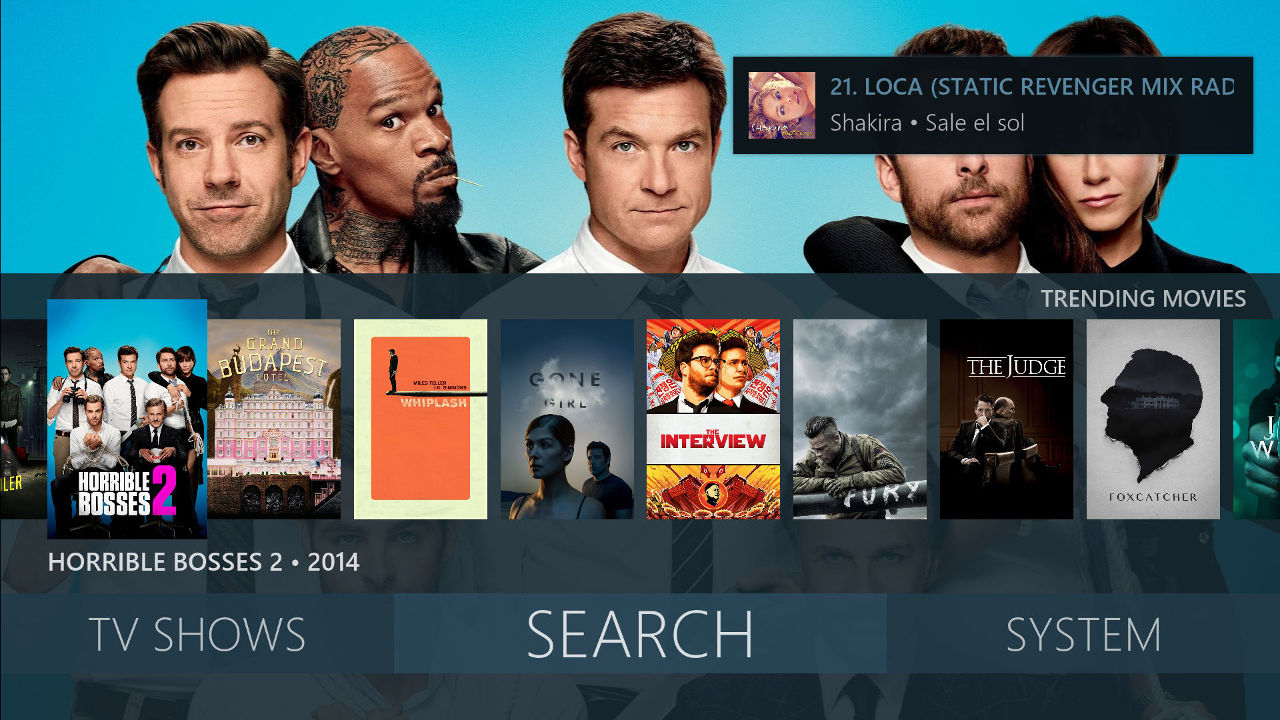
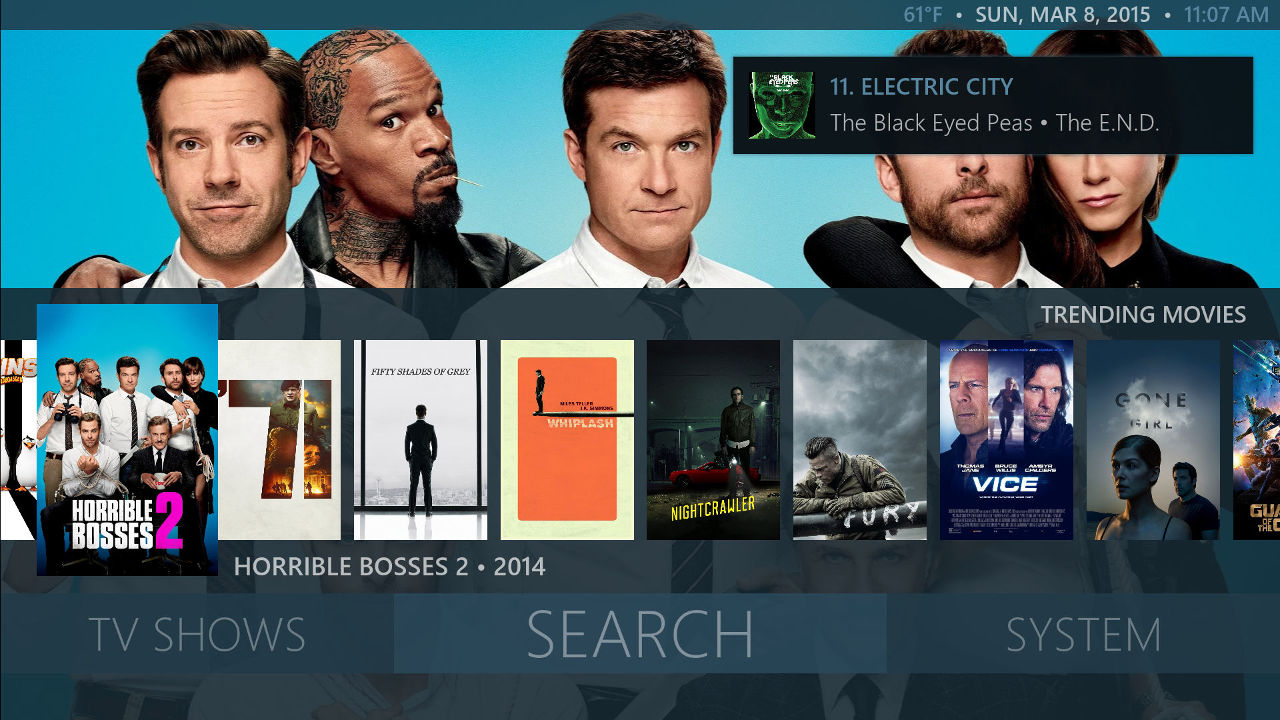
Rearrange home widget thumbs and labels

diff --git a/readme.md b/readme.md
@@ -4,9 +4,9 @@
 
 Mimic is a Kodi skin that combines features from reFocus and Aeon Nox. Based on Aeon Nox 5. Many thanks to BigNoid and Jeroen for creating the skins that are the inspiration for this release.
 
-![Home] (http://i.imgur.com/2nDwoJB.jpg)
+![Home] (http://i.imgur.com/pTO2ftq.jpg)
 
-![Home Grey] (http://i.imgur.com/BnXP7s3.jpg)
+![Home Grey] (http://i.imgur.com/AjSbxQ2.jpg)
 
 More screenshots available here: http://imgur.com/a/anSBV#0
 
